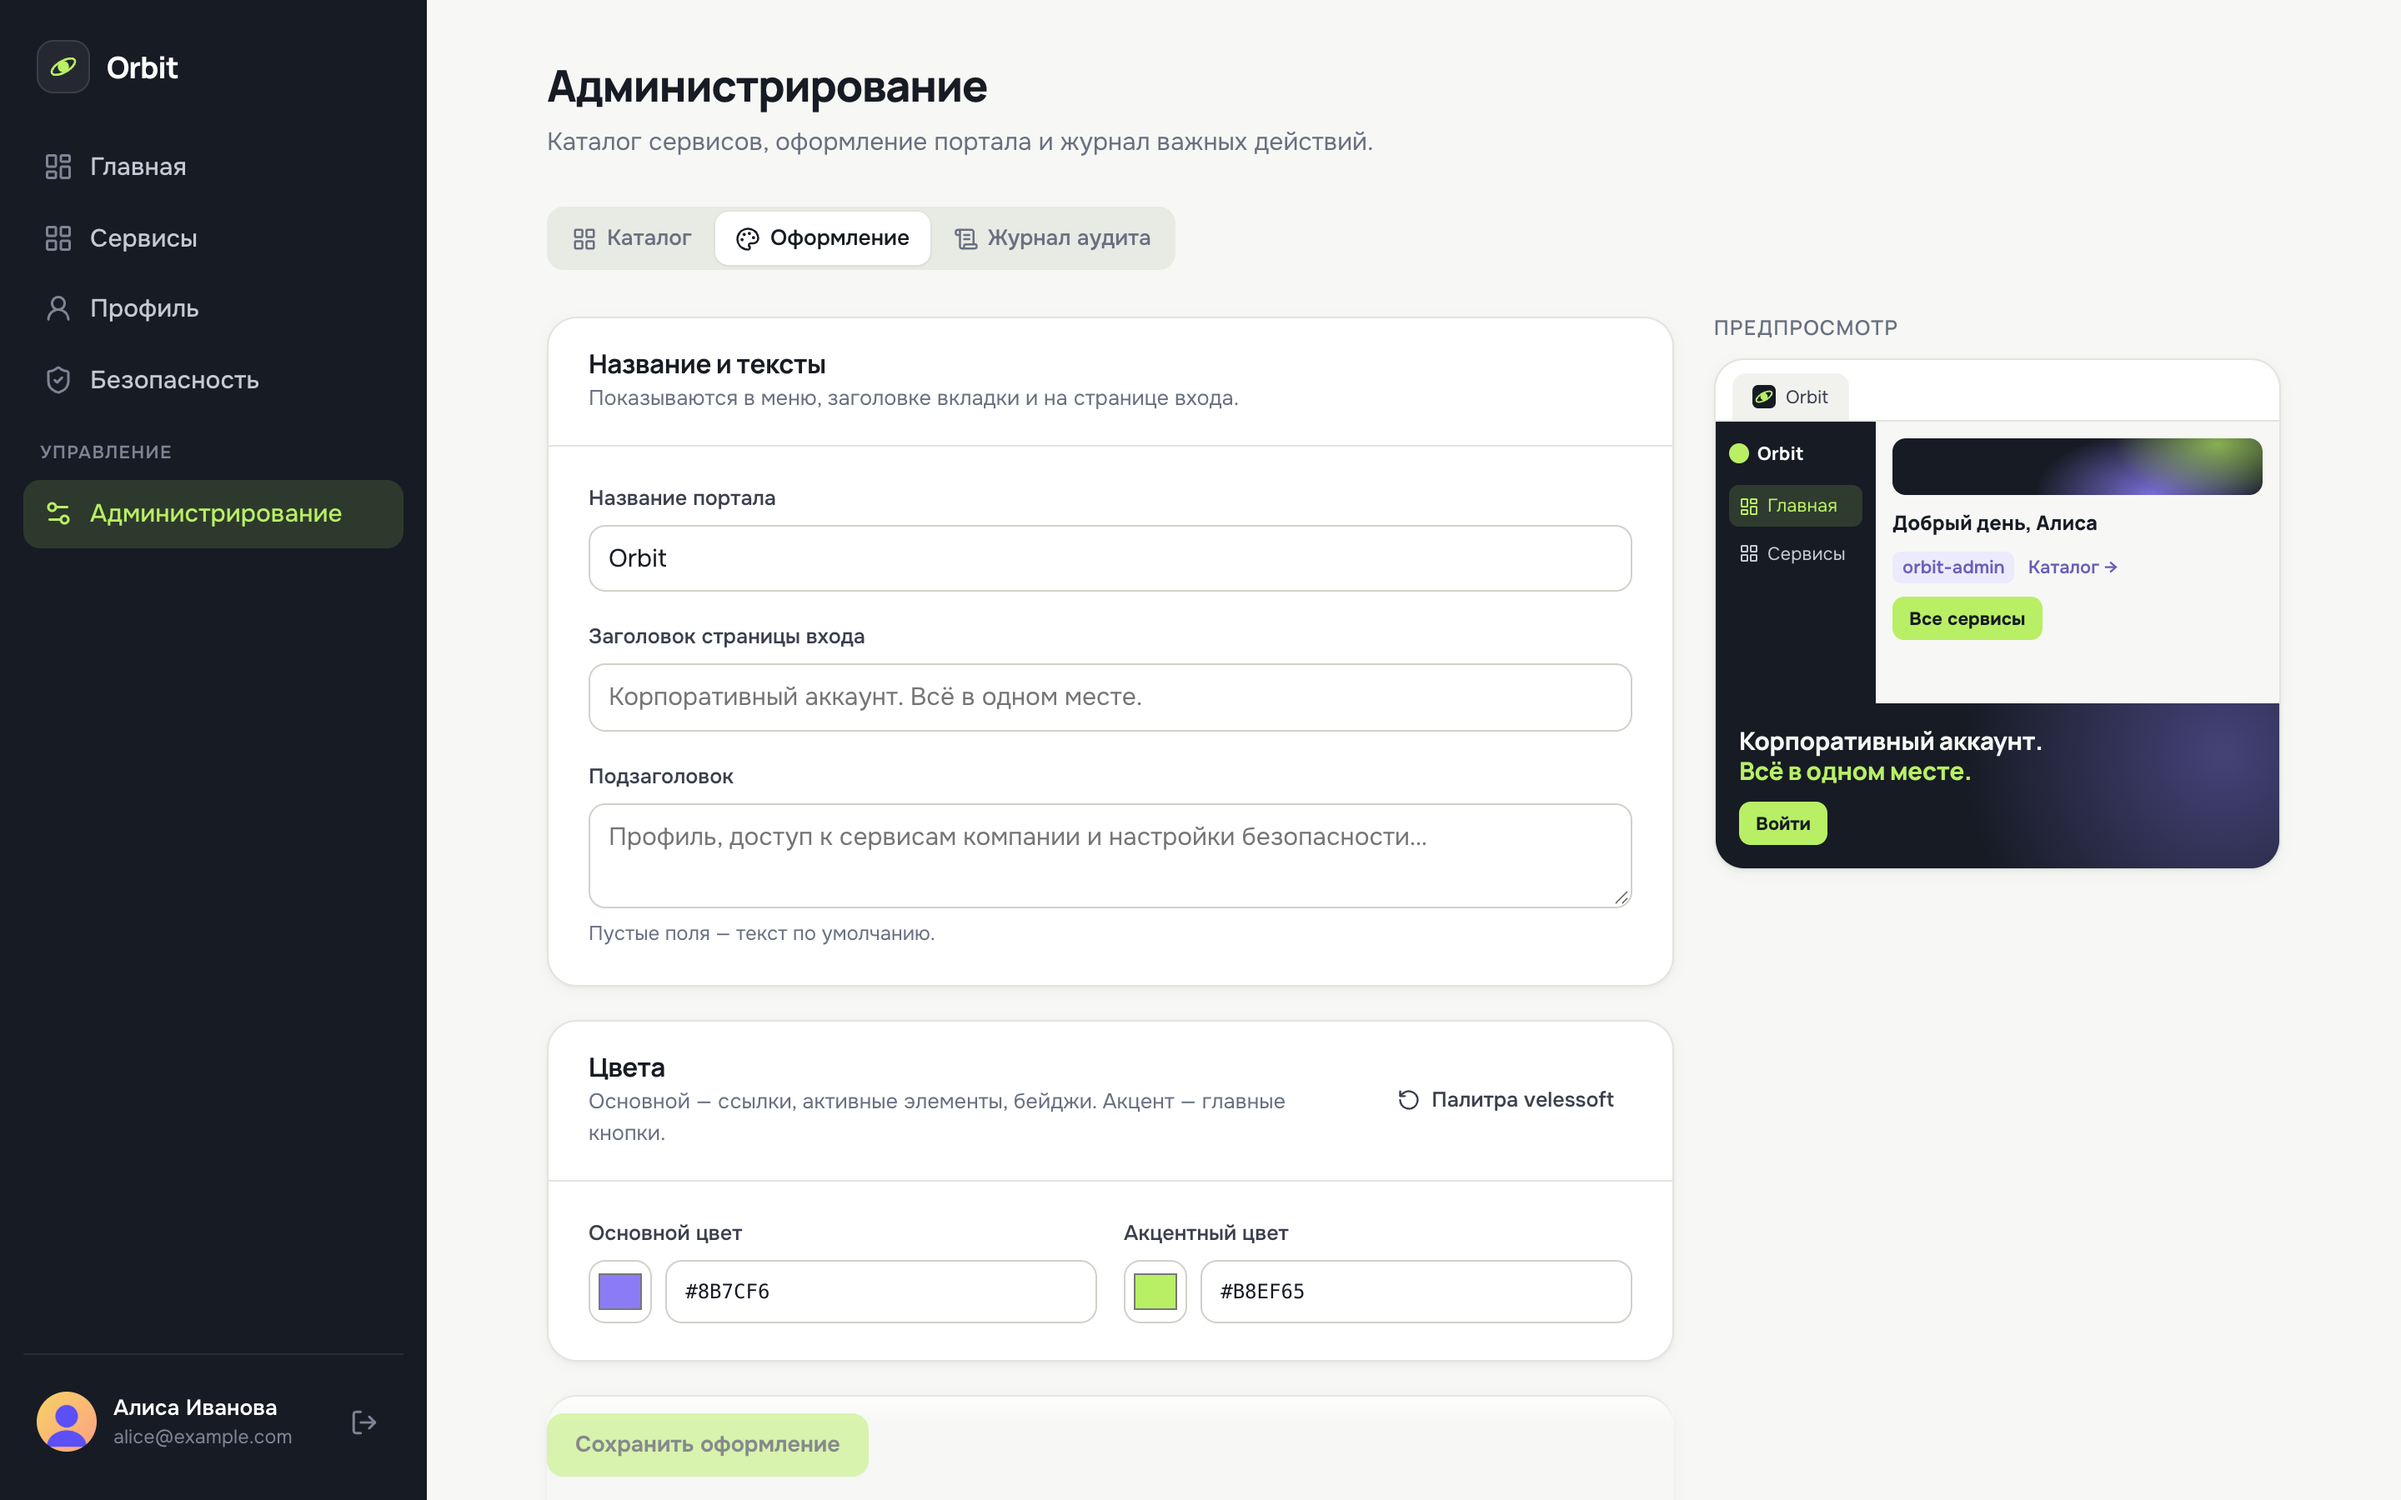
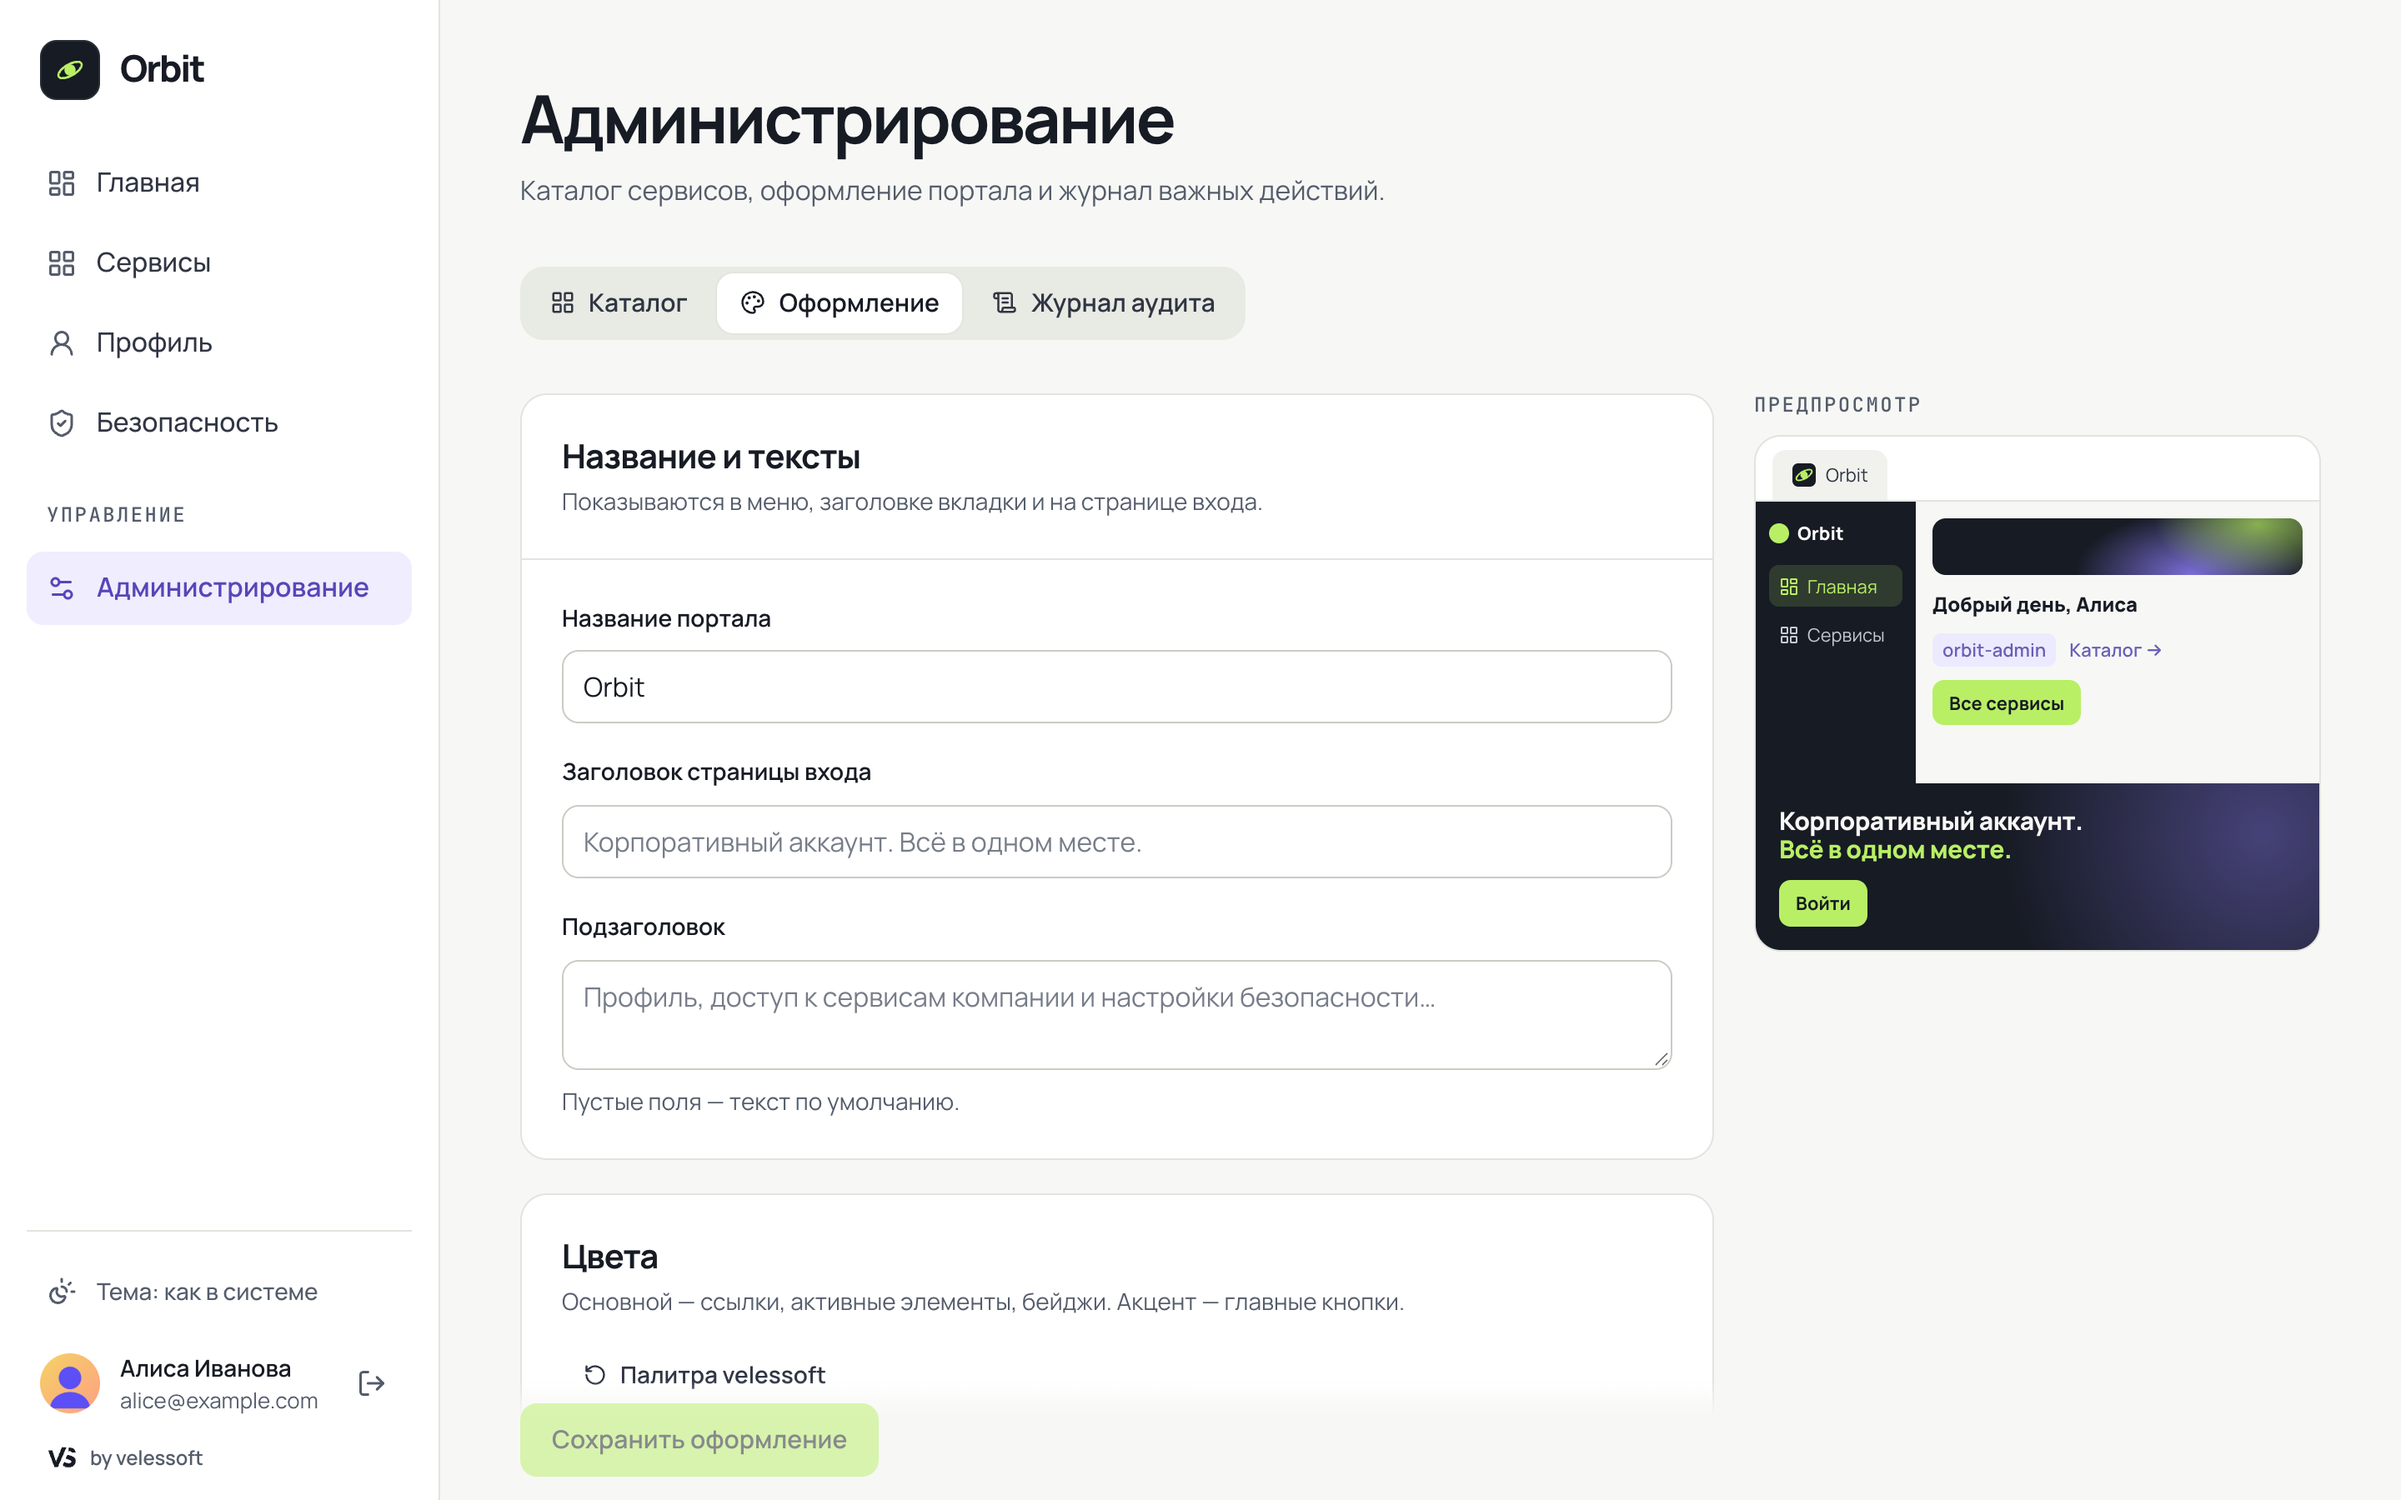
Document design system alignment, refresh screenshots

diff --git a/README.md b/README.md
@@ -26,16 +26,23 @@
 
 ### Оформление
 
-По умолчанию — фирменный стиль **velessoft**:
+Интерфейс следует **дизайн-системе velessoft v0.1**.
 
-| Цвет | | Где используется |
+| Цвет | | Роль |
 |---|---|---|
-| `#171B24` | ink | боковое меню, обложки, тёмная тема |
-| `#F7F8F5` | paper | фон страниц |
-| `#B8EF65` | lime | главные кнопки, активный пункт меню |
-| `#8B7CF6` | violet | ссылки, бейджи, фокус, акценты |
+| `#171B24` | graphite | основа, текст, фон тёмной темы; на нём — знак продукта |
+| `#F7F8F5` | paper | фон светлой темы |
+| `#B8EF65` | lime | только главное действие (одна primary-кнопка в группе), текст на нём — графитовый |
+| `#8B7CF6` | violet | выбранная область (активный пункт меню, фильтр), иллюстрации, идентичность |
 
-Шрифты — **Manrope** (заголовки, 800) и **Onest** (текст), оба с кириллицей и подключены из npm-пакетов `@fontsource-variable/*`, то есть отдаются самим приложением без внешних CDN.
+- **Ссылки** — `#5845B8` в светлой теме и `#B6AAFF` в тёмной, подчёркнуты. Вторичный текст — `#545C6B` и `#B8C0CD`, поверхность в тёмной теме — `#222834`. Если администратор задаёт другой основной цвет, цвета ссылок для обеих тем вычисляются из него с контрастом не ниже AA.
+- **Шрифты** — Manrope (400 текст, 500 подписи, 600 кнопки, 700–800 заголовки) и JetBrains Mono для технических данных: ID, IP, URL, slug, HEX. Оба шрифта отдаются самим приложением из npm-пакетов `@fontsource-variable/*`.
+- **Шкала** — Display 64/40, заголовок страницы 40/30, раздел 24/22, основной текст 16 px с межстрочным 1.6. Текст в полях не меньше 16 px.
+- **Компоненты** — кнопки и поля от 44 px, радиус контролов 10 px, карточек 16 px, бейджи-«пилюли». Обязательных теней нет, фокус — кольцо 3 px. Иконки — Lucide, 2 px.
+- **Ритм** — шаг 4/8, контейнер до 1200 px, брейкпоинты 640/960/1280. Анимации 120 мс на hover и 180 мс на раскрытие; при `prefers-reduced-motion` они отключаются.
+- **Тема** — системная, светлая или тёмная, переключается в нижней части меню и запоминается в браузере.
+- **Подпись** — у продукта своё имя и геометрический символ, а «by velessoft» со знаком VS связывает его со студией.
+- **Разрушительные действия** — удаление сервиса подтверждается вводом его slug, а диалог объясняет, что именно будет удалено. Пустой поиск предлагает «Сбросить фильтры».
 
 Администратор меняет оформление в **Администрирование → Оформление** без пересборки: название портала (меню, заголовок вкладки, страница входа), основной и акцентный цвета (цвет текста на кнопках подбирается по контрасту автоматически, при контрасте ниже 4.5:1 показывается предупреждение), фавикон, логотип, заголовок и подзаголовок страницы входа, ссылка или email поддержки. Изменения видны сразу в живом предпросмотре и применяются для всех пользователей после сохранения. Фавикон и логотип принимаются в PNG/JPEG/WebP и **перекодируются в PNG** (SVG и ICO не принимаются, чтобы с домена Orbit не отдавался активный контент).
 
